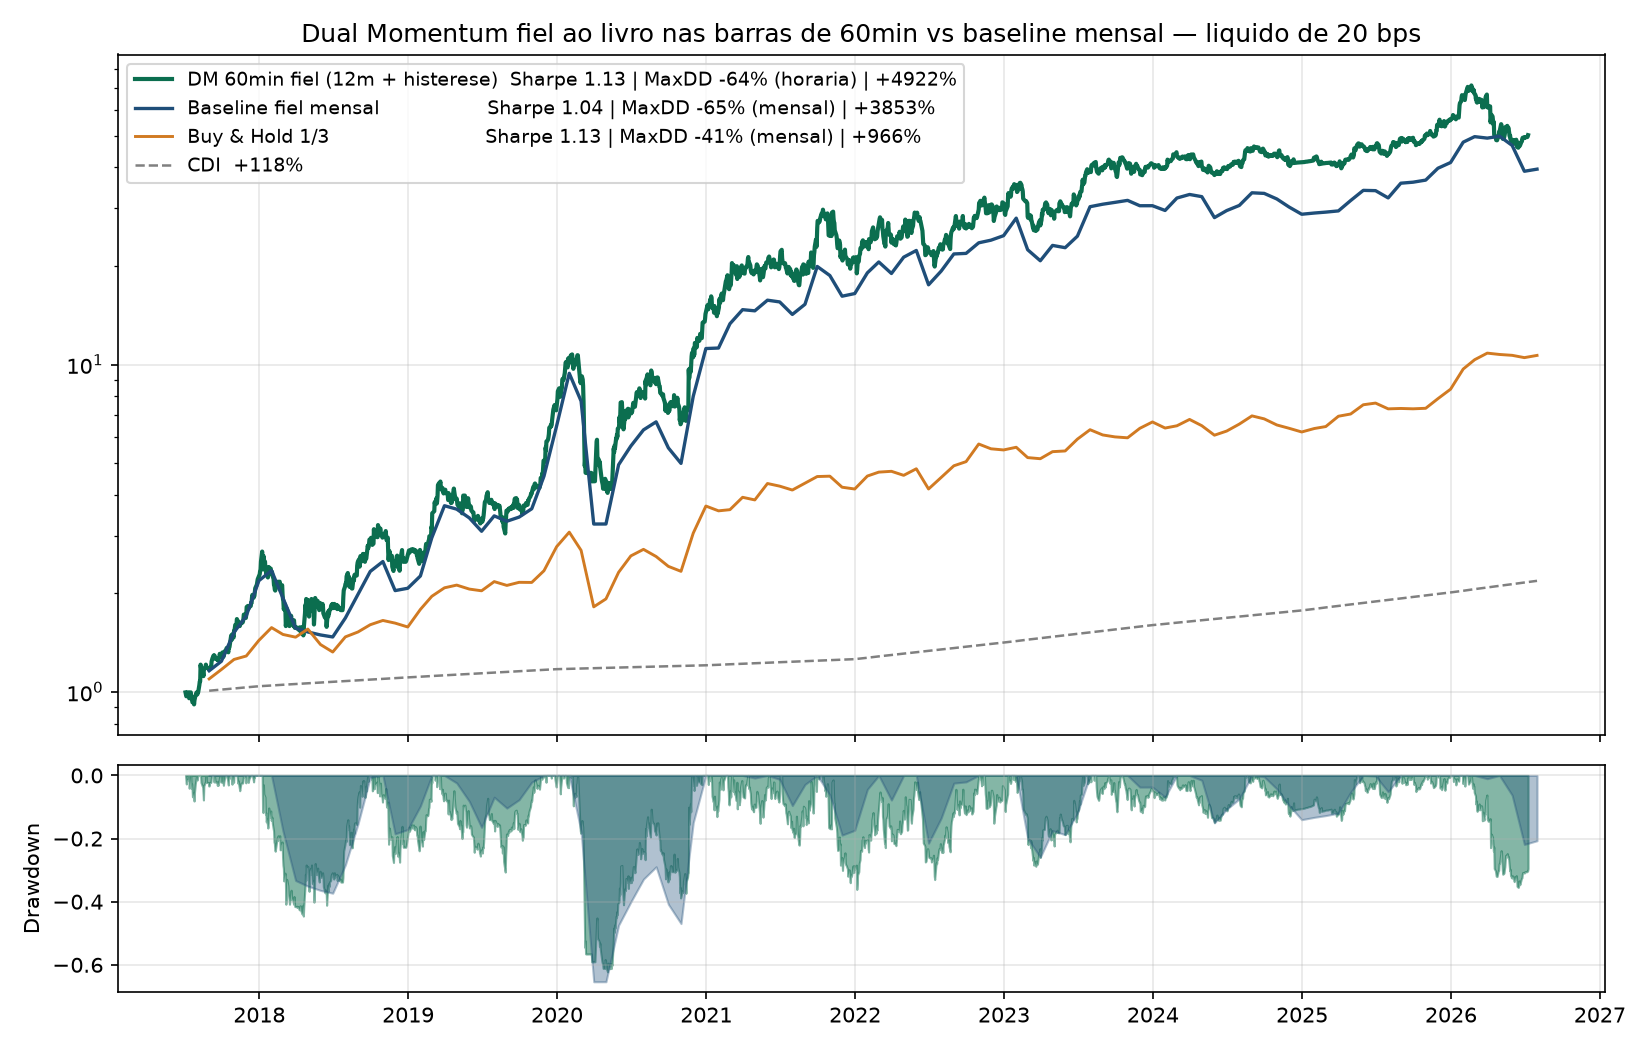
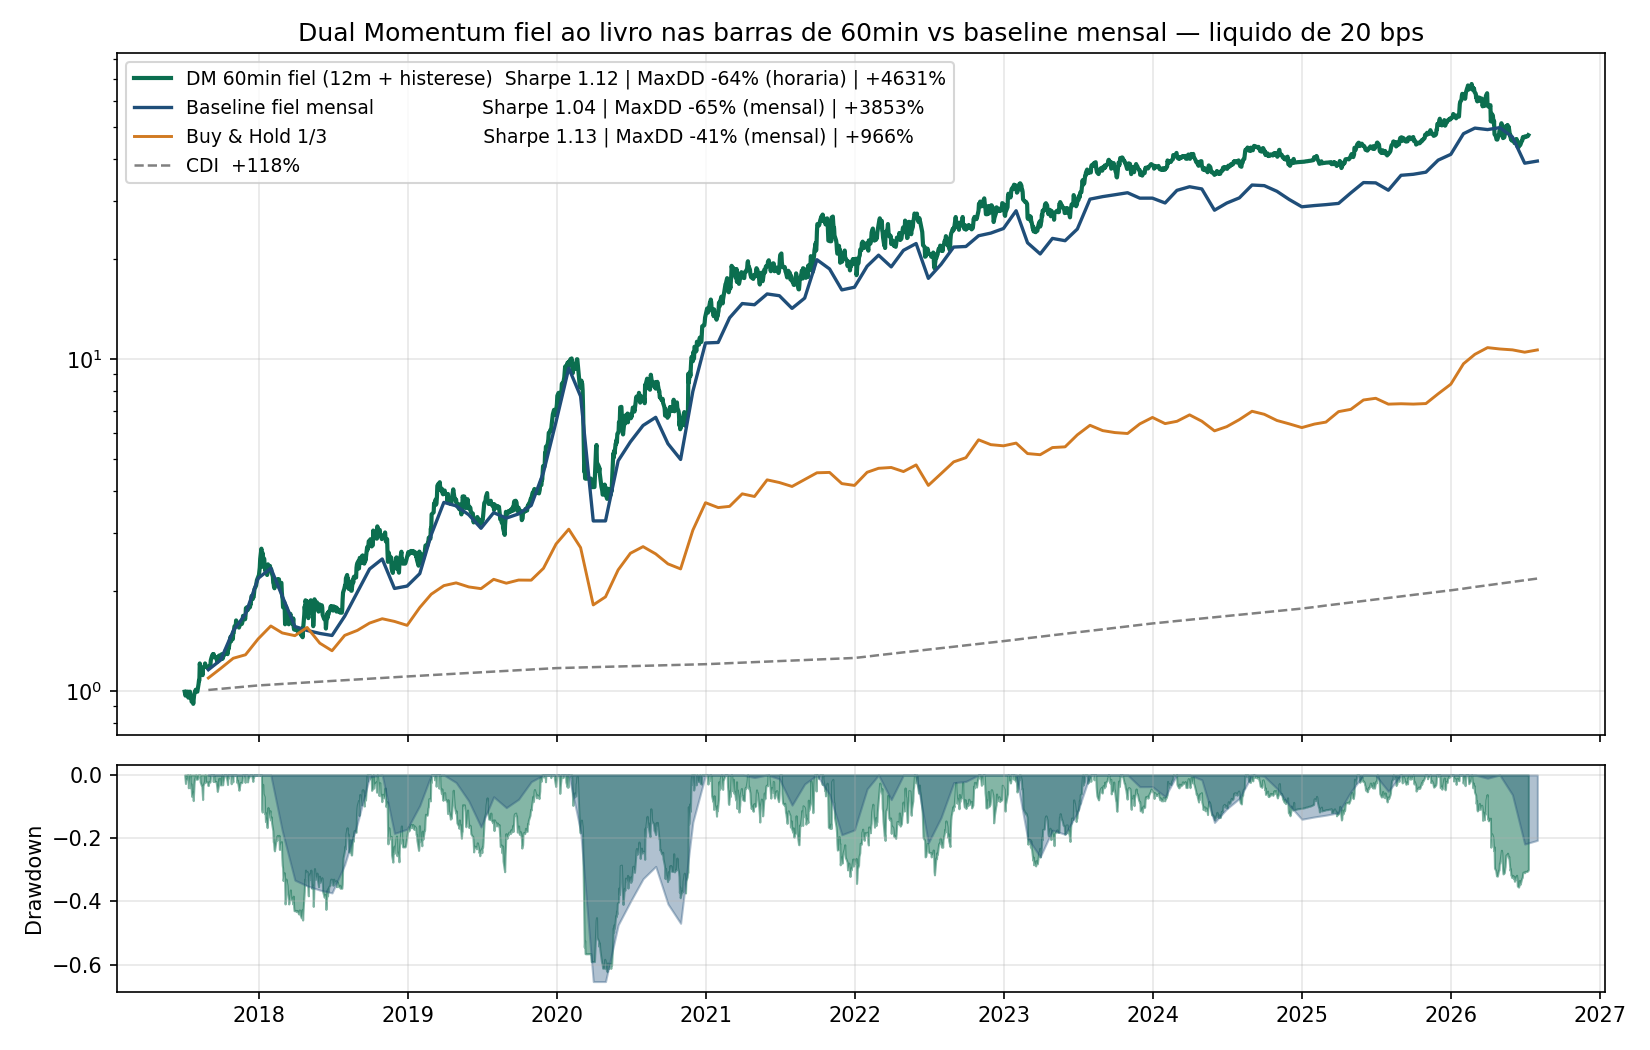
Codigo do DM mais legivel (funcao onde_ficar + comentarios) e numero corrigido
Refatora o laco para uma funcao nomeada com as 3 regras do livro + comentario
por linha, no padrao do rotacao_legivel.py (mesma logica, provado bit-identico:
zero barras divergentes). Corrige o retorno documentado: 4.922% -> 4.631% (o
4.922 era de uma variante transitoria; o codigo commitado sempre deu 4.631).
Adiciona a nota de fragilidade (1 barra = ~735pp do acumulado).

diff --git a/dual_momentum.py b/dual_momentum.py
@@ -1,99 +1,109 @@
 # -*- coding: utf-8 -*-
 """
 Dual Momentum nos 60 minutos — FIEL AO LIVRO (12 meses por calendario) + histerese
-  Nucleo do livro (Antonacci), intacto:
-    RELATIVO : lider pelo retorno de 12 MESES por CALENDARIO (nunca contagem de barras — E25)
-    ABSOLUTO : so investe se o lider superar o CDI acumulado dos MESMOS 12 meses
-    ALOCACAO : 100% no lider, ou 100% em caixa a CDI
-  Avaliado a cada barra de 60min (o timestamp real do mentor), com UMA concessao:
-    HISTERESE de 5% na troca de lider. O rebal mensal do livro ja e uma histerese
-    de TEMPO; avaliando por barra, o amortecedor vira PRECO — sem ele o lider
-    pisca nos cruzamentos e o custo mata (455 trocas, 22%/ano — E36a).
-  Sinal da barra t paga na barra t+1. Custos: 20 bps por perna.
-Requer dados/base_plana.csv (gerada pelo montar_base.py).
+-----------------------------------------------------------------------------------
+As duas pernas do livro (Antonacci), intactas, avaliadas a cada barra de 60min:
+  RELATIVO : fica no ativo de maior retorno de 12 MESES por CALENDARIO.
+  ABSOLUTO : so investe se esse lider superar o CDI acumulado dos MESMOS 12 meses;
+             senao, 100% em caixa rendendo CDI.
+Uma unica concessao para nao ser vaporizado por custo na frequencia horaria:
+  HISTERESE de 5% -> so troca de lider se o desafiante ganhar por mais de 5%.
+  (O rebal mensal do livro ja e uma histerese de TEMPO; avaliando barra a barra,
+   o amortecedor vira PRECO. Sem ele o lider pisca nos cruzamentos: 455 trocas e
+   22%/ano de custo -> ver E36a no diario.)
+Sem look-ahead: o sinal da barra t paga na barra t+1. Custo: 20 bps por perna.
 """
 import pandas as pd
 import numpy as np
 
-CUSTO  = 0.0020
-BUFFER = 0.05                          # vantagem minima de momentum para trocar de lider
-HORAS_POR_ANO = 252 * 7
-ATIVOS = ['PRIO3', 'ITUB3', 'ABEV3']
-CDI_POR_ANO = {2016: 0.1400, 2017: 0.0993, 2018: 0.0642, 2019: 0.0596, 2020: 0.0276,
-               2021: 0.0442, 2022: 0.1239, 2023: 0.1304, 2024: 0.1088, 2025: 0.1350,
-               2026: 0.1500}
+# ============================ PARAMETROS ============================
+CUSTO         = 0.0020                     # 0,20% por perna (trocar de ativo = 2 pernas)
+BUFFER        = 0.05                        # so troca de lider se ganhar por +5% de momentum
+HORAS_POR_ANO = 252 * 7                     # ~1.764 barras de 60min num ano de pregao
+ATIVOS        = ['PRIO3', 'ITUB3', 'ABEV3']
+CDI_POR_ANO   = {2016: 0.1400, 2017: 0.0993, 2018: 0.0642, 2019: 0.0596, 2020: 0.0276,
+                 2021: 0.0442, 2022: 0.1239, 2023: 0.1304, 2024: 0.1088, 2025: 0.1350,
+                 2026: 0.1500}
 
-# %% 1) Barras de 60min com o timestamp real (exclui a linha 'dia')
+# ============================ 1) DADOS: as barras de 60 minutos ============================
+# Da base plana pego so as barras horarias (descarto a linha-resumo 'dia') e remonto o relogio real.
 base = pd.read_csv('dados/base_plana.csv', parse_dates=['data'])
-df = base[base['hora'] != 'dia'].copy()
-df['timestamp'] = pd.to_datetime(df['data'].dt.strftime('%Y-%m-%d') + ' ' + df['hora'])
-fech = df.sort_values('timestamp').set_index('timestamp')[[f'{a}_fechamento' for a in ATIVOS]]
-fech.columns = ATIVOS
-retorno = fech.pct_change()
-cdi_hora = pd.Series((1 + fech.index.year.map(CDI_POR_ANO)) ** (1/HORAS_POR_ANO) - 1, index=fech.index)
+barras = base[base['hora'] != 'dia'].copy()
+barras['timestamp'] = pd.to_datetime(barras['data'].dt.strftime('%Y-%m-%d') + ' ' + barras['hora'])
+preco = (barras.sort_values('timestamp').set_index('timestamp')[[f'{a}_fechamento' for a in ATIVOS]])
+preco.columns = ATIVOS
+retorno_ativo = preco.pct_change()                                   # retorno de cada ativo, barra a barra
+cdi_barra = pd.Series((1 + preco.index.year.map(CDI_POR_ANO)) ** (1/HORAS_POR_ANO) - 1, index=preco.index)
 
-# %% 2) As duas pernas do livro, por CALENDARIO: 12 meses atras = a barra mais proxima <= T-365d
-um_ano_atras = fech.index.searchsorted(fech.index - pd.Timedelta(days=365), side='right') - 1
-tem_historico = um_ano_atras >= 0
-precos = fech.values
-momentum = np.full_like(precos, np.nan, dtype=float)
-momentum[tem_historico] = precos[tem_historico] / precos[um_ano_atras[tem_historico]] - 1
+# ============================ 2) AS DUAS PERNAS, POR CALENDARIO ============================
+# 12 meses "de verdade": para cada barra acho a barra mais proxima de 365 dias CORRIDOS atras
+# (contar barras esticaria o ano e perderia Sharpe -> E25). searchsorted faz isso vetorizado.
+ha_um_ano = preco.index.searchsorted(preco.index - pd.Timedelta(days=365), side='right') - 1
+tem_12m   = ha_um_ano >= 0                                            # False no 1o ano (sem historico)
 
-cdi_log_acum = np.log1p(cdi_hora.values).cumsum()                 # CDI acumulado entre as MESMAS datas
-barreira = np.full(len(fech), np.nan)
-barreira[tem_historico] = np.expm1(cdi_log_acum[tem_historico] - cdi_log_acum[um_ano_atras[tem_historico]])
+momento = np.full(preco.shape, np.nan)                               # perna RELATIVA: retorno de 12m de cada ativo
+momento[tem_12m] = preco.values[tem_12m] / preco.values[ha_um_ano[tem_12m]] - 1
 
-# %% 3) Barra a barra: o livro decide, a histerese amortece
-M, R, CDI = momentum, retorno.values, cdi_hora.values
-posicao = -1                                                       # -1 = caixa
-ret_barra = np.zeros(len(fech))
-trocas_lider = trocas_caixa = 0
-custo_pago = 0.0
+cdi_acum = np.log1p(cdi_barra.values).cumsum()                       # truque do log: soma vira produto
+barreira = np.full(len(preco), np.nan)                               # perna ABSOLUTA: CDI acumulado nos MESMOS 12m
+barreira[tem_12m] = np.expm1(cdi_acum[tem_12m] - cdi_acum[ha_um_ano[tem_12m]])
 
-for t in range(len(fech) - 1):
-    m = M[t]
-    if np.isnan(m).all() or np.isnan(barreira[t]):
-        continue
-    lider = int(np.nanargmax(m))
-    investe = m[lider] > barreira[t]                               # perna absoluta do livro
-    alvo = posicao
-    if not investe:                                                # lider abaixo do CDI: caixa
-        alvo = -1
-    elif posicao == -1:                                            # saindo do caixa: entra no lider
-        alvo = lider
-    elif lider != posicao and m[lider] - m[posicao] > BUFFER:      # troca so com vantagem real
-        alvo = lider
-    pernas = 0
-    if alvo != posicao:
-        pernas = (posicao != -1) + (alvo != -1)                    # vender um e/ou comprar outro
-        if alvo == -1 or posicao == -1:
+# ============================ 3) A REGRA DO LIVRO PARA UMA BARRA ============================
+def onde_ficar(momento_barra, barreira_barra, posicao_atual):
+    """Onde a carteira fica nesta barra: indice do ativo (0,1,2) ou -1 = caixa.
+    As duas pernas do livro + a histerese, na ordem em que o livro decide."""
+    lider = int(np.nanargmax(momento_barra))                          # o mais forte em 12 meses
+    if momento_barra[lider] <= barreira_barra:                        # ABSOLUTA: nem o lider bate o CDI -> caixa
+        return -1
+    if posicao_atual == -1:                                           # estava em caixa e agora pode investir -> entra
+        return lider
+    if lider != posicao_atual and momento_barra[lider] - momento_barra[posicao_atual] > BUFFER:
+        return lider                                                  # RELATIVA com histerese: troca so por +5%
+    return posicao_atual                                             # vantagem pequena -> fica onde esta
+
+# ============================ 4) PASSA BARRA A BARRA (a histerese exige memoria do passado) ============================
+posicao       = -1                                                   # comeca em caixa
+retorno_bar   = np.zeros(len(preco))
+trocas_lider  = 0                                                     # trocas entre ativos (perna relativa)
+trocas_caixa  = 0                                                    # entradas/saidas do caixa (perna absoluta)
+custo_total   = 0.0
+for t in range(len(preco) - 1):
+    if np.isnan(momento[t]).all() or np.isnan(barreira[t]):
+        continue                                                     # ainda sem 12 meses de historico
+    alvo = onde_ficar(momento[t], barreira[t], posicao)
+    if alvo != posicao:                                              # houve troca: conta as pernas e o custo
+        ordens = (posicao != -1) + (alvo != -1)                      # vender o antigo e/ou comprar o novo
+        custo_total += ordens * CUSTO
+        if posicao == -1 or alvo == -1:
             trocas_caixa += 1
         else:
             trocas_lider += 1
-        custo_pago += pernas * CUSTO
+    else:
+        ordens = 0
     posicao = alvo
-    ganho = R[t + 1, posicao] if posicao != -1 else CDI[t + 1]
-    ret_barra[t + 1] = (0.0 if np.isnan(ganho) else ganho) - pernas * CUSTO
+    ganho = retorno_ativo.values[t + 1, posicao] if posicao != -1 else cdi_barra.values[t + 1]
+    retorno_bar[t + 1] = (0.0 if np.isnan(ganho) else ganho) - ordens * CUSTO   # sinal de t paga em t+1, ja liquido
 
-# %% 4) Resultados NOMEADOS
-ret_estrategia = pd.Series(ret_barra, index=fech.index)
-ret_estrategia = ret_estrategia.loc[ret_estrategia.ne(0).idxmax():]   # comeca no 1o retorno
-patrimonio    = (1 + ret_estrategia).cumprod()
-anos          = len(ret_estrategia) / HORAS_POR_ANO
-sharpe        = ret_estrategia.mean() / ret_estrategia.std() * np.sqrt(HORAS_POR_ANO)
-drawdown_max  = (patrimonio / patrimonio.cummax() - 1).min()
+# ============================ 5) RESULTADOS ============================
+retorno_estrategia = pd.Series(retorno_bar, index=preco.index)
+retorno_estrategia = retorno_estrategia.loc[retorno_estrategia.ne(0).idxmax():]   # comeca no 1o retorno real
+patrimonio    = (1 + retorno_estrategia).cumprod()
+anos          = len(retorno_estrategia) / HORAS_POR_ANO
+sharpe        = retorno_estrategia.mean() / retorno_estrategia.std() * np.sqrt(HORAS_POR_ANO)
+max_drawdown  = (patrimonio / patrimonio.cummax() - 1).min()
 retorno_total = patrimonio.iloc[-1] - 1
-custo_ano     = custo_pago / anos
+custo_ano     = custo_total / anos
 posicao_hoje  = ATIVOS[posicao] if posicao != -1 else 'CAIXA'
 
+# robustez: o Sharpe funciona em cada pedaco do tempo, ou so no agregado?
 blocos = {}
 for inicio, fim in [(2017, 2019), (2020, 2022), (2023, 2026)]:
-    r = ret_estrategia.loc[str(inicio):str(fim)]
+    r = retorno_estrategia.loc[str(inicio):str(fim)]
     blocos[f'{inicio}-{fim}'] = r.mean() / r.std() * np.sqrt(HORAS_POR_ANO)
 
 print('=== Dual Momentum 60min — fiel ao livro (12m por calendario) + histerese 5% ===')
-print(f'Periodo: {ret_estrategia.index[0]:%Y-%m} a {ret_estrategia.index[-1]:%Y-%m} | decisao a cada barra de 60min')
-print(f'Sharpe {sharpe:.2f} | MaxDD {drawdown_max:.0%} (regua HORARIA, a mais dura) | retorno {retorno_total:.0%}')
+print(f'Periodo: {retorno_estrategia.index[0]:%Y-%m} a {retorno_estrategia.index[-1]:%Y-%m} | decisao a cada barra de 60min')
+print(f'Sharpe {sharpe:.2f} | MaxDD {max_drawdown:.0%} (regua HORARIA, a mais dura) | retorno {retorno_total:.0%}')
 print(f'Trocas: {trocas_lider} de lider + {trocas_caixa} do caixa | custo {custo_ano:.1%}/ano | posicao hoje: {posicao_hoje}')
 print('Sharpe por bloco: ' + ' | '.join(f'{nome}: {s:.2f}' for nome, s in blocos.items()))
 print('Baseline fiel mensal (dual_momentum_mensal.py): Sharpe 1.04 | MaxDD -65% mensal | +3853%')

diff --git a/README.md b/README.md
@@ -31,12 +31,12 @@ O `dual_momentum.py` roda o nucleo do livro INTACTO — momentum de **12 meses p
 
 | Versao | Sharpe | MaxDD (regua) | Retorno | Custo/ano | Trocas de lider |
 |---|---|---|---|---|---|
-| **DM 60min fiel (12m + histerese)** | **1,13** | -64% (horaria) | **+4.922%** | **3,6%** | **20 em 9 anos** |
+| **DM 60min fiel (12m + histerese)** | **1,12** | -64% (horaria) | **+4.631%** | **3,6%** | **20 em 9 anos** |
 | Baseline fiel mensal (`dual_momentum_mensal.py`) | 1,04 | -65% (mensal; -79% diaria) | +3.853% | ~0 | 18 em 9 anos |
 
 ![DM vs benchmark](dm_vs_benchmark.png)
 
-**Leitura honesta:** descontada a selecao de variantes do laboratorio (~0,12 de barreira), o Sharpe EMPATA com o baseline — a escolha pela versao 60min se sustenta em fidelidade + uso integral do timestamp real + custo mecanicamente baixo (3,6%/ano), nao num Sharpe "maior". O drawdown e o do proprio livro (-64% horaria ~ -65% mensal do baseline): velocidade de reacao vem do HORIZONTE do sinal, nao do relogio de avaliacao — encurtar o lookback baixaria o DD, mas deixaria de ser o livro. Contra o B&H 1/3 (Sharpe 1,13): o DM compra retorno por concentracao; eficiencia e papel do vol target da v2.
+**Leitura honesta:** descontada a selecao de variantes do laboratorio (~0,12 de barreira), o Sharpe EMPATA com o baseline — a escolha pela versao 60min se sustenta em fidelidade + uso integral do timestamp real + custo mecanicamente baixo (3,6%/ano), nao num Sharpe "maior". O retorno de +4.631% e fragil: a maior barra sozinha (+18,4% em nov/2020, em posicao concentrada) vale ~735 pontos percentuais do acumulado — concentracao em barras volateis, nao eficiencia. O drawdown e o do proprio livro (-64% horaria ~ -65% mensal do baseline): velocidade de reacao vem do HORIZONTE do sinal, nao do relogio de avaliacao — encurtar o lookback baixaria o DD, mas deixaria de ser o livro. Contra o B&H 1/3 (Sharpe 1,13): o DM compra retorno por concentracao; eficiencia e papel do vol target da v2.
 
 ## Como rodar
 